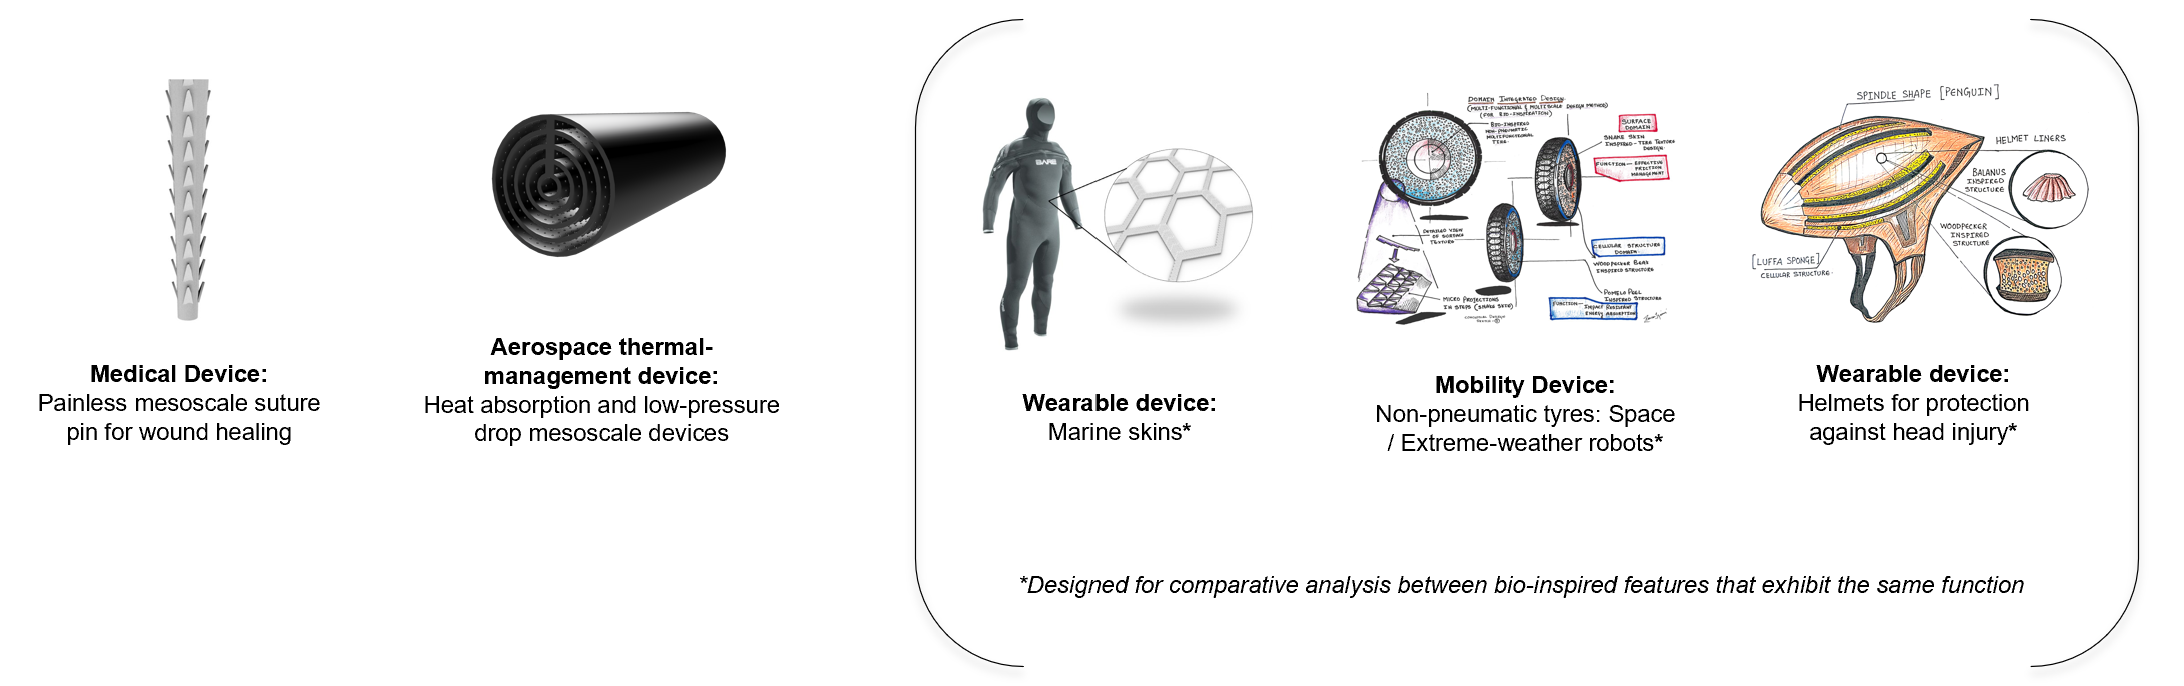
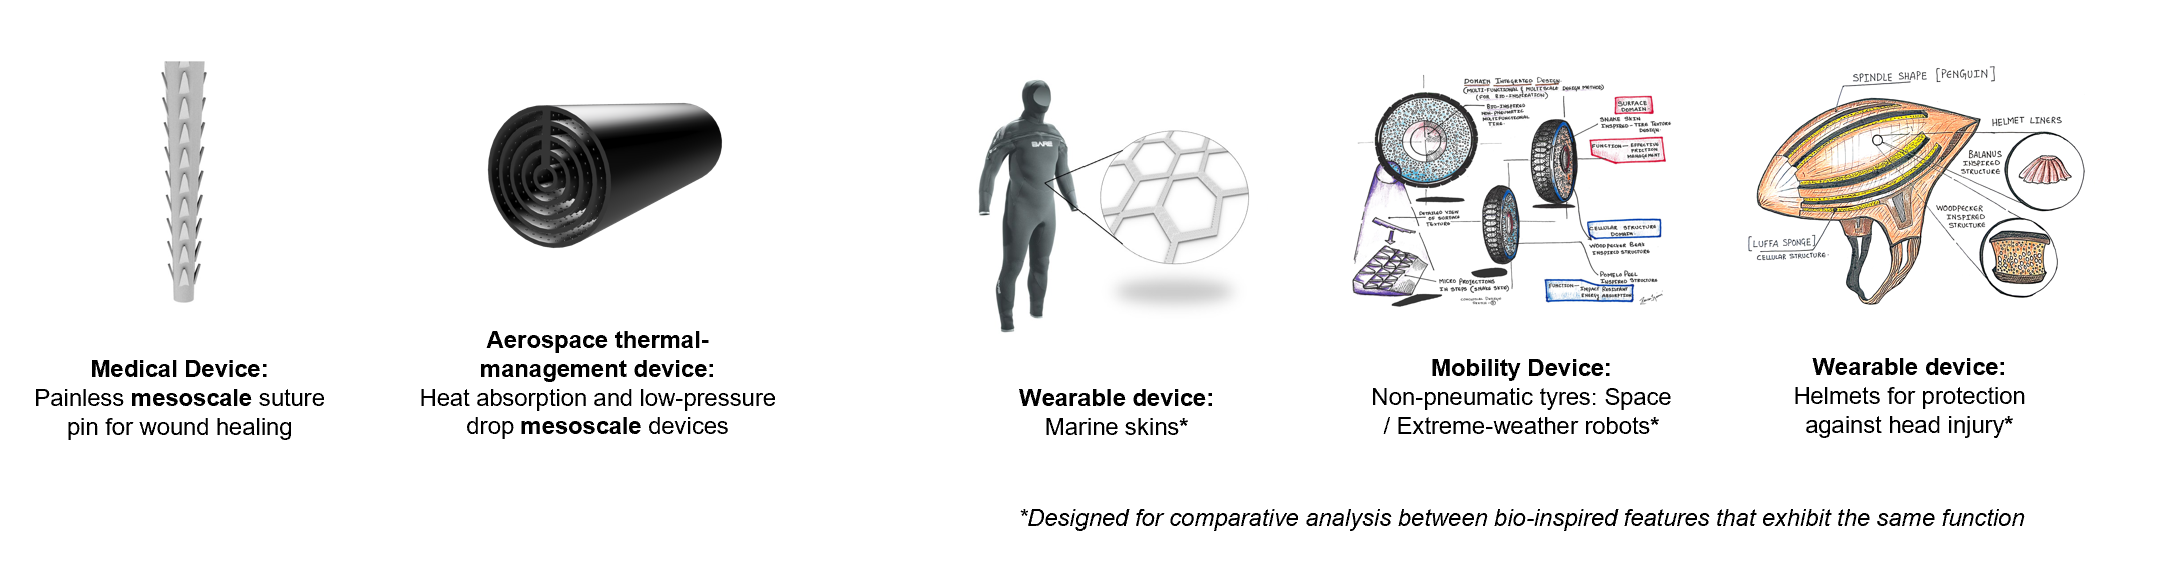
seventy seven commit

diff --git a/pages/user-manual.html b/pages/user-manual.html
@@ -29,7 +29,7 @@
                     <h1><b>MBID ideation system v1.0</b></h1>
                     <h4><b>Multifunctional Bio-inspired Structures and Devices</b></h4>
                 </div>
-            <img src="../images/mbid1.png" width="25%" alt="MBID Concept Overview">
+            <img src="../images/mbid1.png" width="35%" alt="MBID Concept Overview">
         </div>
     </div>
 
@@ -90,16 +90,16 @@
                     Within the Cross-Sections Domain, the function <em><b>“reduce rupture or puncture”</b></em> leads to the biological feature 
                     “Beak cross-section (Kingfisher)”. Its performance arises from the integrated structure: <b>rotational parabolic cross-sectional geometry</b> combined with structural configuration: <b>axial symmetry along the beak</b>, 
                     forming the integrated structural cause of low-impact water entry.
-                    <img src="../images/Cross-sections 1.jpg" class="img-center" width="77%" alt="Cross-sections Dendrogram 1">
-                    <img src="../images/Cross-sections 2.jpg" class="img-center" width="77%" alt="Cross-sections Dendrogram 2">
+                    <img src="../images/Cross-sections 1.png" class="img-center" width="77%" alt="Cross-sections Dendrogram 1">
+                    <img src="../images/Cross-sections 2.png" class="img-center" width="77%" alt="Cross-sections Dendrogram 2">
                 </dd> <!--Description-->
                 <dt><h3>Surfaces Domain</h3></dt>
                 <dd style="padding: 15px;">
                     Within the Surfaces Domain, the function <em><b>“resist retraction and ease insertion”</b></em> leads to the biological feature “micro/nano projection (porcupine barbs).” 
                     The performance arises from the integrated structure: <b>triangular micro-barbs</b> combined with structural configuration: <b>arranged sequentially with directional orientation toward the base</b>, 
                     enabling low insertion resistance and high pull-out resistance.
-                    <img src="../images/Surfaces 1.jpg" class="img-center" width="77%" alt="Surfaces Dendrogram 1">
-                    <img src="../images/Surfaces 2.jpg" class="img-center" width="77%" alt="Surfaces Dendrogram 2">
+                    <img src="../images/Surfaces 1.png" class="img-center" width="77%" alt="Surfaces Dendrogram 1">
+                    <img src="../images/Surfaces 2.png" class="img-center" width="77%" alt="Surfaces Dendrogram 2">
                 </dd>
             </dl>
 
@@ -137,9 +137,9 @@
         <div id="header">
             <h3><b>Example Output: Painless meso-scale suture pins for wound healing</b></h3>
 
-                <img src="../images/example-1.2.jpg" class="img-center" width="70%" alt="painless suture pins - overview">
-                <img src="../images/example-1.0.jpg" class="img-center" width="70%" alt="painless suture pins">
-                <img src="../images/example-1.1.jpg" class="img-center" width="70%" alt="painless suture pins - analysis">
+                <img src="../images/example-1.2.png" class="img-center" width="70%" alt="painless suture pins - overview">
+                <img src="../images/example-1.0.png" class="img-center" width="70%" alt="painless suture pins">
+                <img src="../images/example-1.1.png" class="img-center" width="70%" alt="painless suture pins - analysis">
                 
             <p>
                 The resulting concept is a painless meso-scale suture pin. It integrates barbed surface structures for anchorage and retraction resistance with a streamlined cross-sectional geometry for reduced puncture force. 
@@ -154,7 +154,7 @@
             <h2><b>MORE APPLICATIONS</b></h2>
                 
                 <p>
-                    <img src="../images/example-2.jpg" class="img-center" width="80%" alt="applications">
+                    <img src="../images/example-2.png" class="img-center" width="80%" alt="applications">
                 </p>
 
                 <p> 

diff --git a/pages/method.html b/pages/method.html
@@ -29,7 +29,7 @@
                     <h1><b>MBID ideation system v1.0</b></h1>
                     <h4><b>Multifunctional Bio-inspired Structures and Devices</b></h4>
                 </div>
-            <img src="../images/mbid1.png" width="25%" alt="MBID Concept Overview">
+            <img src="../images/mbid1.png" width="35%" alt="MBID Concept Overview">
         </div>
     </div>
 
@@ -73,7 +73,7 @@
                 DID and xDID focus on abstracting the underlying geometric logic that governs these structure–effect relationships
             </p>
                    
-            <img src="../images/method1.jpg" class="img-center" width="55%" alt="Explanation 1 of MBID">
+            <img src="../images/method1.png" class="img-center" width="60%" alt="Explanation 1 of MBID">
             
         <h3><b>DIVERSITY-ENHANCED APPROACH</b></h3>    
             
@@ -120,7 +120,7 @@
             characterised as a body or skin texture and is mapped to the overarching geometric/architectural <b>Domain of Surfaces</b>. 
         </p>
             
-            <img src="../images/method3.jpg" class="img-center" width="60%" alt="Explanation 3 of method">
+            <img src="../images/method3.png" class="img-center" width="70%" alt="Explanation 3 of method">
 
         <p>
             In this research, the focus is on abstracting and mapping the <b>structural cause</b>, defined by integrated structure and structural strategy to the <b>physical outcome (repel water)</b>. 
@@ -189,12 +189,12 @@
             <b>Shapes:</b> Scale; 
             <b>Cross-Sections:</b> Scale.
         </p>
-        <img src="../images/parameters-1.jpg" class="img-center" width="65%" alt="parameters-1">
+        <img src="../images/parameters-1.png" class="img-center" width="65%" alt="parameters-1">
 
         <p>
            In addition there are <b>cross-domain selection parameters</b> used when features from different Domains exhibit the same function. The identified parameters are stiffness-to-weight ratio, and higher order corrugations. 
         </p>
-        <img src="../images/parameters-2.jpg" class="img-center" width="65%" alt="parameters-2">
+        <img src="../images/parameters-2.png" class="img-center" width="65%" alt="parameters-2">
       
         
     </div>

diff --git a/pages/cellular.html b/pages/cellular.html
@@ -30,7 +30,7 @@
                     <h1><b>MBID ideation system v1.0</b></h1>
                     <h4><b>Multifunctional Bio-inspired Structures and Devices</b></h4>
                 </div>
-            <img src="../images/mbid1.png" width="25%" alt="MBID Concept Overview">
+            <img src="../images/mbid1.png" width="35%" alt="MBID Concept Overview">
         </div>
     </div>
 

diff --git a/pages/cross-sections.html b/pages/cross-sections.html
@@ -29,7 +29,7 @@
                     <h1><b>MBID ideation system v1.0</b></h1>
                     <h4><b>Multifunctional Bio-inspired Structures and Devices</b></h4>
                 </div>
-            <img src="../images/mbid1.png" width="25%" alt="MBID Concept Overview">
+            <img src="../images/mbid1.png" width="35%" alt="MBID Concept Overview">
         </div>
     </div>
 

diff --git a/pages/shapes.html b/pages/shapes.html
@@ -29,7 +29,7 @@
                     <h1><b>MBID ideation system v1.0</b></h1>
                     <h4><b>Multifunctional Bio-inspired Structures and Devices</b></h4>
                 </div>
-            <img src="../images/mbid1.png" width="25%" alt="MBID Concept Overview">
+            <img src="../images/mbid1.png" width="35%" alt="MBID Concept Overview">
         </div>
     </div>
 

diff --git a/pages/surfaces.html b/pages/surfaces.html
@@ -29,7 +29,7 @@
                     <h1><b>MBID ideation system v1.0</b></h1>
                     <h4><b>Multifunctional Bio-inspired Structures and Devices</b></h4>
                 </div>
-            <img src="../images/mbid1.png" width="25%" alt="MBID Concept Overview">
+            <img src="../images/mbid1.png" width="35%" alt="MBID Concept Overview">
         </div>
     </div>
 
